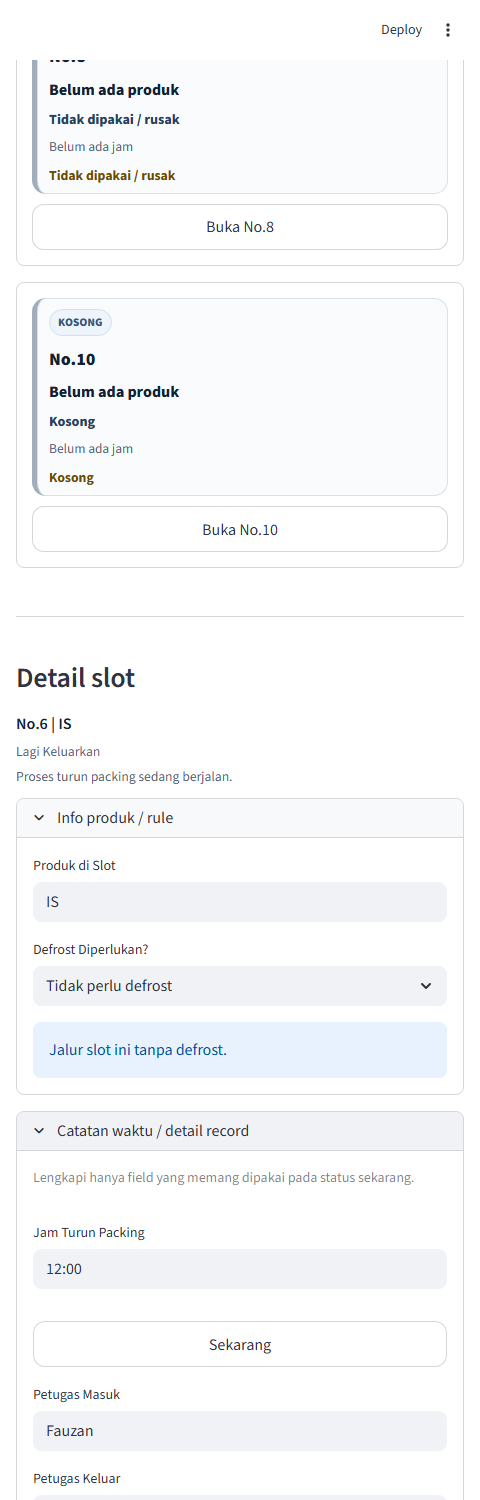
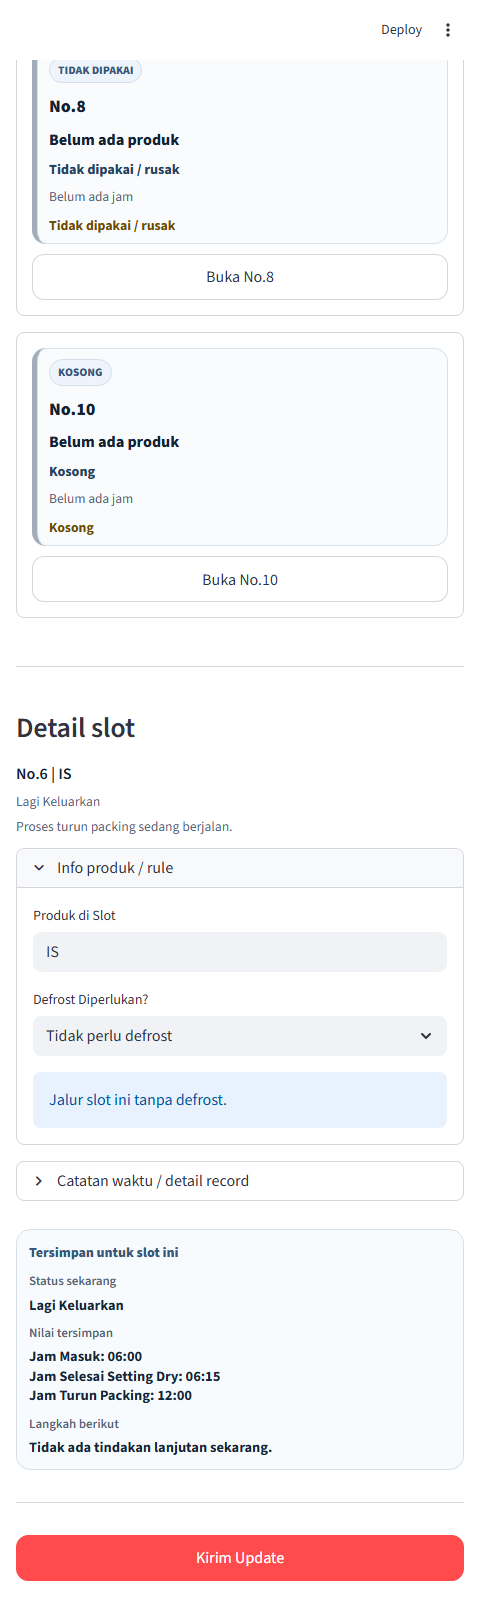
Add partial unload branch for tambahan dry

diff --git a/src/formatters/telegramFormatter.js b/src/formatters/telegramFormatter.js
@@ -192,7 +192,7 @@ function buildTelegramUpdateReply(report) {
     ].join('\n');
   }
 
-  return [
+  const lines = [
     '@SOI_DRY_Laporan',
     'Laporan sudah diperbarui.',
     '',
@@ -201,7 +201,13 @@ function buildTelegramUpdateReply(report) {
     `Status: ${statusLabel(slot)}`,
     `Petugas: ${petugasLabel(slot)}`,
     `Izin: ${izinLabel(slot)}`
-  ].join('\n');
+  ];
+
+  if (slot.partial_out && cleanText(slot.status_enum) === 'DRY_ULANG') {
+    lines.push('Catatan: sebagian turun dicatat');
+  }
+
+  return lines.join('\n');
 }
 
 function buildTelegramMessages(report) {

diff --git a/streamlit_app.py b/streamlit_app.py
@@ -314,6 +314,7 @@ def ensure_app_state():
         st.session_state["team_id"] = "dry-team-1"
         st.session_state["_pending_editor_sync"] = True
         st.session_state["_editor_slot_no"] = None
+        st.session_state["_partial_branch_slot"] = None
         sync_header_widgets_from_report(force=True)
 
 
@@ -472,6 +473,9 @@ def apply_quick_action(action):
         slot["jam_keluar_sebagian"] = None
         slot["partial_unload_content"] = None
         slot["partial_unload_note"] = None
+    elif action == "sebagian_turun":
+        st.session_state["_partial_branch_slot"] = slot["slot_no"]
+        return
     elif action == "turun" and lock_time_once(slot, "tgl_turun_packing", "jam_turun_packing"):
         slot["status_enum"] = "TURUN_PACKING"
     elif action == "kosong":
@@ -486,6 +490,7 @@ def apply_quick_action(action):
         slot["status_enum"] = "TIDAK_DIPAKAI"
 
     st.session_state["_pending_editor_sync"] = True
+    st.session_state["_partial_branch_slot"] = None
     save_draft()
 
 
@@ -522,10 +527,14 @@ def operator_state(slot):
 def state_helper_text(slot):
     state = operator_state(slot)
     if state == "MENUNGGU_TURUN":
+        if slot.get("partial_out"):
+            return "Sebagian turun dicatat. Pilih tindakan berikutnya."
         return "Dry selesai, pilih tindakan berikutnya."
     if state == "DEFROST":
         return "Lengkapi defrost lalu lanjut ke dry."
     if state == "SEDANG_DRY_TAMBAHAN":
+        if slot.get("partial_out"):
+            return "Sebagian turun dicatat. Sisa masih dry."
         return "Tambahan dry sedang berjalan."
     if state == "LAGI_KELUARKAN":
         return "Proses turun packing sedang berjalan."
@@ -636,7 +645,7 @@ def action_type_badge(slot):
 def action_priority_text(slot):
     action = current_action_type(slot)
     if action == "PILIH_TINDAKAN":
-        return "Pilih Lanjut Dry atau Turun Semua"
+        return "Pilih Lanjut Dry, Turun Semua, atau Sebagian Turun"
     if action == "MULAI_DRY":
         return "Mulai dry sekarang"
     if action == "MULAI_DEFROST":
@@ -669,7 +678,48 @@ def product_label(slot):
     return clean_text(slot.get("status_isi")) or "-"
 
 
+def partial_branch_active(slot):
+    return st.session_state.get("_partial_branch_slot") == slot["slot_no"]
+
+
+def save_partial_branch(slot):
+    partial_time = non_empty(normalize_clock(st.session_state.get("jam_keluar_sebagian")))
+    partial_content = non_empty(st.session_state.get("partial_unload_content"))
+    partial_note = non_empty(st.session_state.get("partial_unload_note"))
+
+    if not partial_time:
+        set_feedback("Waktu Sebagian Turun wajib diisi.", ok=False)
+        return False
+    if not partial_content:
+        set_feedback("Isi Sebagian Turun wajib diisi.", ok=False)
+        return False
+
+    work_date = (
+        st.session_state["work_date"].isoformat()
+        if isinstance(st.session_state.get("work_date"), date)
+        else clean_text(st.session_state.get("work_date"))
+    )
+
+    slot["partial_out"] = True
+    slot["jam_keluar_sebagian"] = partial_time
+    slot["partial_unload_content"] = partial_content
+    slot["partial_unload_note"] = partial_note
+    slot["status_enum"] = "DRY_ULANG"
+    slot["tgl_selesai_dry"] = None
+    slot["jam_selesai_dry"] = None
+    slot["jam_turun_packing"] = None
+    slot["tgl_turun_packing"] = None
+
+    st.session_state["_partial_branch_slot"] = None
+    st.session_state["_pending_editor_sync"] = True
+    save_draft()
+    set_feedback("Sebagian turun dicatat. Slot kembali ke tambahan dry.", ok=True)
+    return True
+
+
 def short_context_text(slot):
+    if slot.get("partial_out") and operator_state(slot) in {"SEDANG_DRY_TAMBAHAN", "MENUNGGU_TURUN"}:
+        return "Sebagian turun dicatat"
     helper = state_helper_text(slot)
     if helper:
         return helper
@@ -691,12 +741,16 @@ def summary_item_markup(slot, emphasize_action=False):
     action_badge = ""
     if emphasize_action and current_action_type(slot):
         action_badge = f'<div class="sd-mini-badge">{html.escape(action_type_badge(slot))}</div>'
+    partial_note = ""
+    if slot.get("partial_out") and operator_state(slot) in {"SEDANG_DRY_TAMBAHAN", "MENUNGGU_TURUN"}:
+        partial_note = '<div class="sd-mini-state">Sebagian turun dicatat</div>'
     return (
         '<div class="sd-mini-card">'
         f"{action_badge}"
         f'<div class="sd-mini-title">{html.escape(title)}</div>'
         f'<div class="sd-mini-meta">{html.escape(shift_line)}</div>'
         f'<div class="sd-mini-time">{html.escape(timing)}</div>'
+        f"{partial_note}"
         f'<div class="sd-mini-action">{html.escape(context)}</div>'
         "</div>"
     )
@@ -709,6 +763,9 @@ def board_card_markup(slot):
     check_now = action_priority_text(slot) if current_action_type(slot) else short_context_text(slot)
     tone = " action" if current_action_type(slot) else (" passive" if slot_group(slot) != "active" else "")
     badge = action_type_badge(slot) if current_action_type(slot) else slot_group_label(slot)
+    partial_note = ""
+    if slot.get("partial_out") and operator_state(slot) in {"SEDANG_DRY_TAMBAHAN", "MENUNGGU_TURUN"}:
+        partial_note = '<div class="sd-board-note">Sebagian turun dicatat</div>'
     return (
         f'<div class="sd-board-card{tone}">'
         f'<div class="sd-board-badge">{html.escape(badge)}</div>'
@@ -716,6 +773,7 @@ def board_card_markup(slot):
         f'<div class="sd-board-product">{html.escape(product if product != "-" else "Belum ada produk")}</div>'
         f'<div class="sd-board-state">{html.escape(state)}</div>'
         f'<div class="sd-board-time">{html.escape(timing)}</div>'
+        f"{partial_note}"
         f'<div class="sd-board-check">{html.escape(check_now)}</div>'
         "</div>"
     )
@@ -742,6 +800,7 @@ def quick_action_label(action):
         "selesai_tambahan": "Selesai Dry Tambahan",
         "lanjut_dry": "Lanjut Dry",
         "turun_semua": "Turun Semua",
+        "sebagian_turun": "Sebagian Turun",
         "kosong": "Set kosong",
         "tidak": "Set tidak dipakai",
     }.get(action, "")
@@ -750,7 +809,7 @@ def quick_action_label(action):
 def quick_action_disabled_reason(slot, action):
     if action in {"defros", "masuk"} and product_label(slot) == "-":
         return "Isi produk dulu sebelum mulai dry."
-    if action in {"lanjut_dry", "turun_semua"} and not clean_text(slot.get("jam_selesai_dry")):
+    if action in {"lanjut_dry", "turun_semua", "sebagian_turun"} and not clean_text(slot.get("jam_selesai_dry")):
         return "Jam Selesai Setting Dry belum tercatat."
     return ""
 
@@ -758,7 +817,7 @@ def quick_action_disabled_reason(slot, action):
 def visible_quick_actions(slot):
     primary = quick_action_primary(slot)
     if operator_state(slot) == "MENUNGGU_TURUN":
-        return ["lanjut_dry", "turun_semua"]
+        return ["lanjut_dry", "turun_semua", "sebagian_turun"]
     return [primary] if primary else []
 
 
@@ -850,6 +909,7 @@ def submit_report():
 def select_slot(slot_no: int):
     st.session_state["report"]["selected_slot"] = slot_no
     st.session_state["_pending_editor_sync"] = True
+    st.session_state["_partial_branch_slot"] = None
 
 
 def render_summary():
@@ -970,6 +1030,10 @@ def saved_value_lines(slot):
     for label, value in mapping:
         if clean_text(value):
             lines.append(f"{label}: {value}")
+    if slot.get("partial_out"):
+        partial_bits = [clean_text(slot.get("jam_keluar_sebagian")), clean_text(slot.get("partial_unload_content"))]
+        partial_text = " | ".join([bit for bit in partial_bits if bit]) or "Sebagian turun dicatat"
+        lines.append(f"Sebagian Turun: {partial_text}")
     return lines
 
 
@@ -1000,6 +1064,7 @@ def render_detail():
     slot = report["slots"][report["selected_slot"] - 1]
     visibility = field_visibility(slot)
     state = operator_state(slot)
+    partial_mode = partial_branch_active(slot)
     st.markdown("### Detail slot")
     st.markdown(
         f"""
@@ -1048,6 +1113,24 @@ def render_detail():
                 st.info("Defrost tidak diperlukan lagi, tetapi catatan defrost lama tetap tersimpan.")
             else:
                 st.info("Jalur slot ini tanpa defrost.")
+
+    if partial_mode:
+        with st.container(border=True):
+            st.markdown("**Sebagian Turun**")
+            st.caption("Catat sebagian produk yang turun, lalu sisa slot lanjut ke tambahan dry.")
+            render_time_input_row("Waktu Sebagian Turun", "jam_keluar_sebagian")
+            st.text_input("Isi Sebagian Turun", key="partial_unload_content")
+            st.text_input("Catatan Partial", key="partial_unload_note")
+            action_cols = st.columns(2)
+            with action_cols[0]:
+                if st.button("Simpan Sebagian Turun", key="save_partial_branch", type="primary", use_container_width=True):
+                    sync_report_from_widgets()
+                    if save_partial_branch(slot):
+                        st.rerun()
+            with action_cols[1]:
+                if st.button("Batal", key="cancel_partial_branch", use_container_width=True):
+                    st.session_state["_partial_branch_slot"] = None
+                    st.rerun()
 
     with st.expander("Catatan waktu / detail record", expanded=False):
         st.caption("Lengkapi hanya field yang memang dipakai pada status sekarang.")
@@ -1287,6 +1370,12 @@ def main():
           margin-top: 4px;
           font-size: 0.84rem;
           color: #536476;
+        }
+        .sd-board-note {
+          margin-top: 6px;
+          font-size: 0.78rem;
+          font-weight: 800;
+          color: #0f6c5a;
         }
         .sd-board-check {
           margin-top: 7px;
